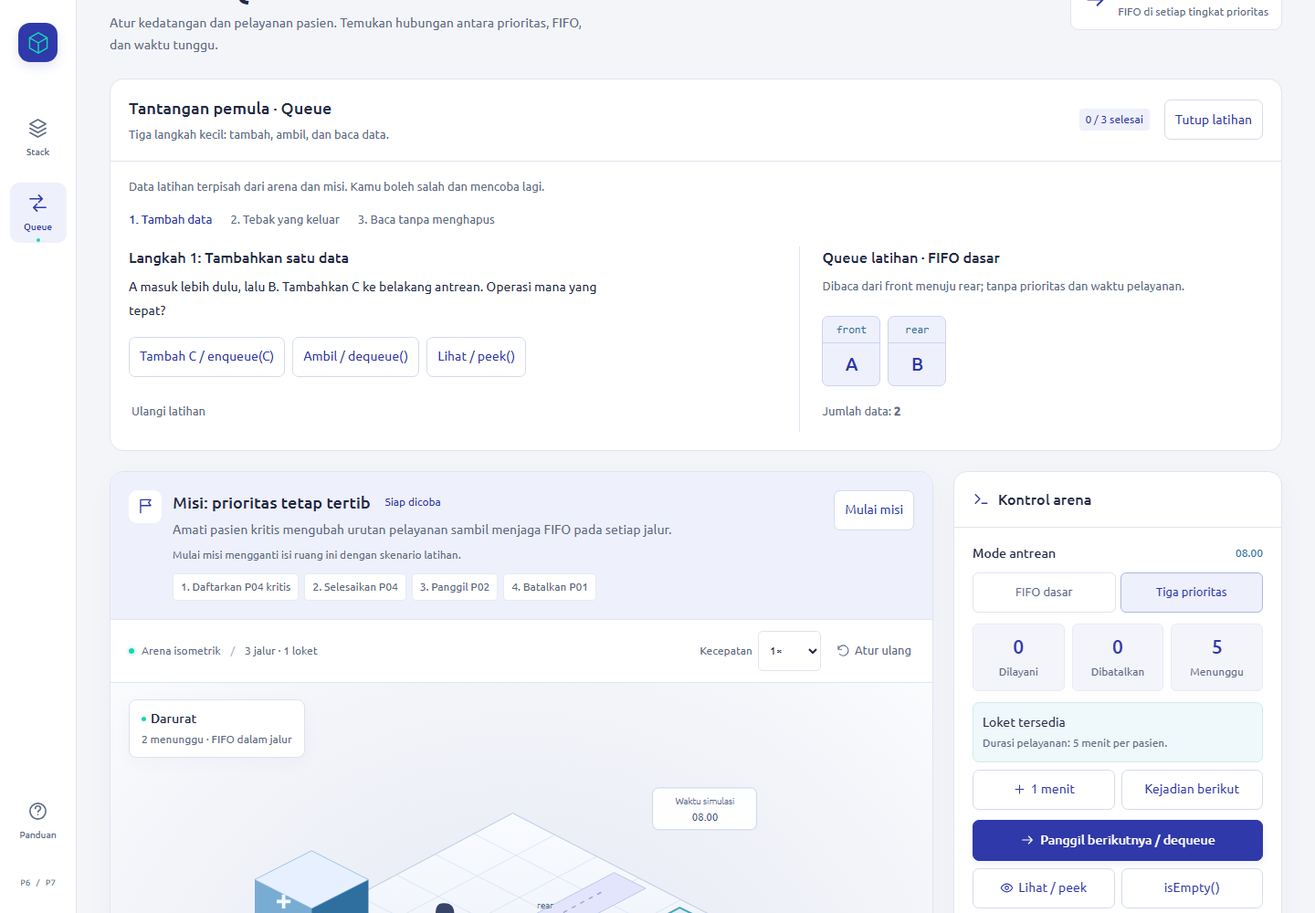
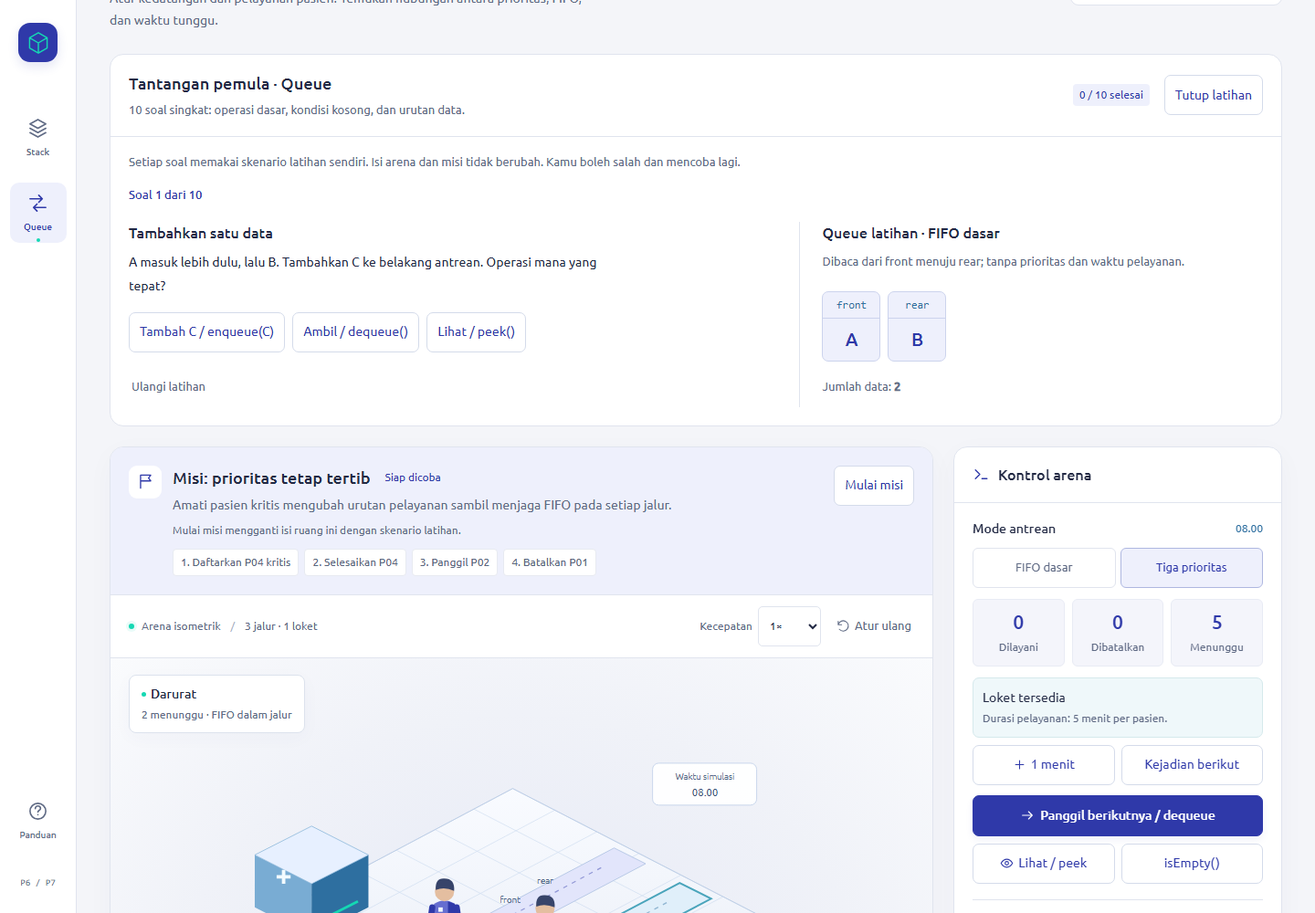
feat: expand beginner practice to 20 questions

diff --git a/app.js b/app.js
@@ -1,5 +1,6 @@
 import { Stack, Queue, Clinic, transfer, priorities } from './model.js';
 import { lessons } from './execution.js';
+import { warmupQuestions } from './challenges.js';
 
 const $ = id => document.getElementById(id);
 const escape = value => String(value).replace(/[&<>"']/g, c => ({'&':'&amp;','<':'&lt;','>':'&gt;','"':'&quot;',"'":'&#39;'}[c]));
@@ -47,48 +48,37 @@ function seedQueue(mission = false) {
 }
 seedStack(); seedQueue();
 
-function newWarmup(kind) {
+function newWarmup(kind,step=0) {
   const structure=kind==='stack'?new Stack():new Queue();
-  for(const id of ['A','B'])structure[kind==='stack'?'push':'enqueue'](item(id,`Data ${id}`,1));
-  return {structure,step:0,answered:false,message:'',error:false};
+  for(const id of warmupQuestions[kind][step].initial)structure[kind==='stack'?'push':'enqueue'](item(id,`Data ${id}`,1));
+  return {structure,step,answered:false,message:'',error:false};
 }
 const warmups={stack:newWarmup('stack'),queue:newWarmup('queue')};
 let warmupOpen=false;
 
 function renderWarmup() {
   const state=warmups[room],stack=room==='stack',values=state.structure.values();
-  const add=stack?'push':'enqueue',remove=stack?'pop':'dequeue',done=state.step+Number(state.answered);
+  const question=warmupQuestions[room][state.step],total=warmupQuestions[room].length,done=state.step+Number(state.answered),complete=done===total;
   $('warmup-title').textContent=`Tantangan pemula · ${stack?'Stack':'Queue'}`;
-  $('warmup-progress').textContent=`${done} / 3 selesai`;
-  $('toggle-warmup').textContent=warmupOpen?'Tutup latihan':done===0?'Mulai latihan':done===3?'Lihat hasil':'Lanjutkan latihan';
+  $('warmup-summary').textContent=`${total} soal singkat: operasi dasar, kondisi kosong, dan urutan data.`;
+  $('warmup-progress').textContent=`${done} / ${total} selesai`;
+  $('toggle-warmup').textContent=warmupOpen?'Tutup latihan':done===0?'Mulai latihan':complete?'Lihat hasil':'Lanjutkan latihan';
   $('toggle-warmup').setAttribute('aria-expanded',String(warmupOpen));
   $('warmup-body').hidden=!warmupOpen;
-  const questions=[`A masuk lebih dulu, lalu B. Tambahkan C ${stack?'ke atas tumpukan':'ke belakang antrean'}. Operasi mana yang tepat?`,`${stack?'Stack':'Queue'} kini berisi A, B, C berdasarkan urutan masuk. Jika ${remove}() dijalankan, data mana yang keluar?`,`Sekarang ${stack?'top':'front'} menunjuk B. Lihat datanya tanpa menghapus. Operasi mana yang tepat?`];
-  const description=done===3?`${stack?'Stack mengeluarkan data terakhir masuk (LIFO).':'Queue mengeluarkan data pertama masuk (FIFO).'} peek() membaca data tanpa mengubah isi struktur.`:state.answered?'Amati hasilnya pada diagram, lalu lanjutkan ke langkah berikutnya.':questions[state.step];
-  const choices=state.step===0?[['add',`Tambah C / ${add}(C)`],['remove',`Ambil / ${remove}()`],['peek','Lihat / peek()']]:state.step===1?['A','B','C'].map(id=>[id,id]):[['remove',`Ambil / ${remove}()`],['peek','Lihat / peek()'],['empty','Cek kosong / isEmpty()']];
-  const diagram=values.map((value,i)=>`<li><span>${i===0?stack?'top':'front':i===values.length-1?stack?'dasar':'rear':'data'}</span><strong>${escape(value.id)}</strong></li>`).join('');
-  $('warmup-exercise').innerHTML=`<ol class="warmup-steps" aria-label="Langkah latihan">${['Tambah data','Tebak yang keluar','Baca tanpa menghapus'].map((title,i)=>`<li ${i===state.step&&done<3?'aria-current="step"':''}>${i<done?icon('check'):`${i+1}.`} ${title}</li>`).join('')}</ol><div class="warmup-grid"><div><h3>${done===3?'Tiga tantangan selesai.':`Langkah ${state.step+1}${state.answered?' selesai':': '+['Tambahkan satu data','Amati urutan keluar','Lihat tanpa mengambil'][state.step]}`}</h3><p>${description}</p><div id="warmup-choices" class="warmup-choices">${state.answered?'':choices.map(([answer,label])=>`<button class="secondary" data-warmup-answer="${answer}">${label}</button>`).join('')}</div><div class="warmup-actions">${state.answered&&done<3?'<button class="primary" data-warmup-next="true">Lanjut ke langkah berikutnya</button>':''}${done===3?'<a class="secondary" href="#simulation">Coba di arena</a>':''}<button class="text-button" data-warmup-reset="true">Ulangi latihan</button></div></div><div class="warmup-preview"><h3>${stack?'Stack latihan':'Queue latihan · FIFO dasar'}</h3><p>${stack?'Dibaca dari top menuju dasar.':'Dibaca dari front menuju rear; tanpa prioritas dan waktu pelayanan.'}</p><ul class="warmup-data" aria-label="${stack?'Urutan dari top ke dasar':'Urutan dari front ke rear'}">${diagram}</ul><p>Jumlah data: <strong>${values.length}</strong></p></div></div>`;
+  const description=complete?`${stack?'LIFO':'FIFO'}, peek, kondisi kosong, dan perubahan referensi sudah kamu coba. Lanjutkan bereksperimen di arena.`:state.answered?'Amati hasilnya pada diagram. Soal berikutnya memuat skenario latihan sendiri.':question.prompt;
+  const diagram=values.map((value,i)=>`<li><span>${i===0?stack?'top':values.length===1?'front / rear':'front':i===values.length-1?stack?'dasar':'rear':'data'}</span><strong>${escape(value.id)}</strong></li>`).join('')||`<li class="warmup-empty"><span>${stack?'top':'front / rear'}</span><strong>None</strong></li>`;
+  $('warmup-exercise').innerHTML=`<p class="warmup-steps">${complete?'Latihan selesai':`Soal ${state.step+1} dari ${total}`}</p><div class="warmup-grid"><div><h3>${complete?`${total} soal selesai.`:escape(question.title)+(state.answered?' · selesai':'')}</h3><p>${escape(description)}</p><div id="warmup-choices" class="warmup-choices">${state.answered?'':question.choices.map(([answer,label])=>`<button class="secondary" data-warmup-answer="${escape(answer)}">${escape(label)}</button>`).join('')}</div><div class="warmup-actions">${state.answered&&!complete?'<button class="primary" data-warmup-next="true">Lanjut ke soal berikutnya</button>':''}${complete?'<a class="secondary" href="#simulation">Coba di arena</a>':''}<button class="text-button" data-warmup-reset="true">Ulangi latihan</button></div></div><div class="warmup-preview"><h3>${stack?'Stack latihan':'Queue latihan · FIFO dasar'}</h3><p>${stack?'Dibaca dari top menuju dasar.':'Dibaca dari front menuju rear; tanpa prioritas dan waktu pelayanan.'}</p><ul class="warmup-data" aria-label="${stack?'Urutan dari top ke dasar':'Urutan dari front ke rear'}">${diagram}</ul><p>Jumlah data: <strong>${values.length}</strong></p></div></div>`;
   $('warmup-feedback').textContent=state.message;
   $('warmup-feedback').classList.toggle('error',state.error);
 }
 
 function answerWarmup(answer) {
   const state=warmups[room];if(state.answered)return;
-  const stack=room==='stack',expected=state.step===0?'add':state.step===1?state.structure.peek().id:'peek';
-  if(!['add','remove','peek','empty','A','B','C'].includes(answer))return;
-  state.error=answer!==expected;
-  if(state.error){
-    state.message=['Belum tepat. Pilih operasi yang menambah data; mengambil atau melihat tidak menambah C.',`Belum tepat. Amati ${stack?'top dan aturan terakhir masuk, pertama keluar':'front dan aturan pertama masuk, pertama keluar'}. Coba lagi.`,'Belum tepat. Ambil menghapus data, sedangkan cek kosong hanya memberi True/False. Pilih operasi yang membaca data.'][state.step];
-  }else{
-    if(state.step===0){
-      state.structure[stack?'push':'enqueue'](item('C','Data C',1));
-      state.message=stack?'Benar. push(C) menaruh C di top. Urutannya kini C → B → A dari top.':'Benar. enqueue(C) menaruh C di rear. Front tetap A; urutannya A → B → C.';
-    }else if(state.step===1){
-      const removed=state.structure[stack?'pop':'dequeue']();
-      state.message=`Benar. ${removed.id} keluar lewat ${stack?'top':'front'}. ${stack?'Top':'Front'} sekarang B; tersisa dua data.`;
-    }else state.message=`Benar. peek() menghasilkan ${state.structure.peek().id}; jumlah data tetap ${state.structure.count}. Data dibaca tanpa dihapus.`;
-    state.answered=true;
-  }
+  const question=warmupQuestions[room][state.step];
+  if(!question.choices.some(([value])=>value===answer))return;
+  state.error=answer!==question.answer;
+  if(state.error)state.message=`Belum tepat. ${question.hint} Coba lagi.`;
+  else{question.run(state.structure);state.message=`Benar. ${question.explanation}`;state.answered=true;}
   renderWarmup();$('warmup-feedback').focus({preventScroll:true});
 }
 
@@ -501,8 +491,8 @@ document.addEventListener('click',event=>{
   if(!button)return;
   if(button.dataset.warmupAnswer){answerWarmup(button.dataset.warmupAnswer);return;}
   if(button.dataset.warmupNext){
-    const state=warmups[room];if(!state.answered||state.step>=2)return;
-    state.step++;state.answered=false;state.message='';state.error=false;renderWarmup();
+    const state=warmups[room];if(!state.answered||state.step>=warmupQuestions[room].length-1)return;
+    warmups[room]=newWarmup(room,state.step+1);renderWarmup();
     document.querySelector('#warmup-choices button')?.focus({preventScroll:true});return;
   }
   if(button.dataset.warmupReset){warmups[room]=newWarmup(room);renderWarmup();document.querySelector('#warmup-choices button')?.focus({preventScroll:true});return;}

diff --git a/challenges.js b/challenges.js
@@ -1,0 +1,81 @@
+const data=id=>({id,name:`Data ${id}`,weight:1});
+
+function questions(kind) {
+  const stack=kind==='stack',add=stack?'push':'enqueue',remove=stack?'pop':'dequeue',pointer=stack?'top':'front';
+  return [
+    {
+      title:'Tambahkan satu data', initial:['A','B'],
+      prompt:`A masuk lebih dulu, lalu B. Tambahkan C ${stack?'ke atas tumpukan':'ke belakang antrean'}. Operasi mana yang tepat?`,
+      choices:[['add',`Tambah C / ${add}(C)`],['remove',`Ambil / ${remove}()`],['peek','Lihat / peek()']], answer:'add',
+      hint:'Pilih operasi yang menambah data; mengambil atau melihat tidak menambah C.',
+      run:s=>s[add](data('C')),
+      explanation:stack?'push(C) menaruh C di top. Urutannya kini C → B → A dari top.':'enqueue(C) menaruh C di rear. Front tetap A; urutannya A → B → C.',
+    },
+    {
+      title:'Amati urutan keluar', initial:['A','B','C'],
+      prompt:`A masuk, lalu B, lalu C. Jika ${remove}() dijalankan, data mana yang keluar?`,
+      choices:[['A','A'],['B','B'],['C','C']], answer:stack?'C':'A',
+      hint:`Amati ${pointer} dan aturan ${stack?'terakhir masuk, pertama keluar':'pertama masuk, pertama keluar'}.`,
+      run:s=>s[remove](),
+      explanation:`${stack?'C':'A'} keluar lewat ${pointer}. ${stack?'Top':'Front'} sekarang B; tersisa dua data.`,
+    },
+    {
+      title:'Lihat tanpa mengambil', initial:stack?['A','B']:['B','C'],
+      prompt:`${stack?'Top':'Front'} menunjuk B. Lihat datanya tanpa menghapus. Operasi mana yang tepat?`,
+      choices:[['remove',`Ambil / ${remove}()`],['peek','Lihat / peek()'],['empty','Cek kosong / isEmpty()']], answer:'peek',
+      hint:'Ambil menghapus data, sedangkan cek kosong hanya memberi True/False. Pilih operasi yang membaca data.',
+      run:s=>s.peek(), explanation:'peek() menghasilkan B; jumlah data tetap 2. Data dibaca tanpa dihapus.',
+    },
+    {
+      title:'Periksa struktur yang berisi', initial:['A','B'],
+      prompt:'Masih ada dua data. Apa hasil isEmpty()?',
+      choices:[['True','True'],['False','False'],['None','None']], answer:'False',
+      hint:'isEmpty() menanyakan apakah tidak ada data, bukan apakah ada data.',
+      run:s=>s.isEmpty(), explanation:'isEmpty() menghasilkan False karena struktur masih berisi A dan B. Tidak ada data yang dihapus.',
+    },
+    {
+      title:'Kenali kondisi kosong', initial:[],
+      prompt:`Tidak ada data dan ${pointer} menunjuk None. Apa hasil isEmpty()?`,
+      choices:[['False','False'],['None','None'],['True','True']], answer:'True',
+      hint:'True berarti pernyataan “struktur ini kosong” benar. None berarti tidak ada node yang ditunjuk.',
+      run:s=>s.isEmpty(), explanation:'isEmpty() menghasilkan True. Struktur tetap kosong; pemeriksaan ini tidak menambah atau menghapus node.',
+    },
+    {
+      title:'Ambil data terakhir', initial:['K'],
+      prompt:`Hanya K yang tersisa. Setelah ${remove}(), bagaimana referensi ${stack?'top':'front dan rear'}?`,
+      choices:[['K','Tetap menunjuk K'],['None',stack?'top → None':'front dan rear → None'],['new','Membuat node pengganti']], answer:'None',
+      hint:`Setelah node terakhir keluar, tidak ada lagi node yang dapat ditunjuk ${stack?'top':'kedua ujung Queue'}.`,
+      run:s=>s[remove](), explanation:stack?'K keluar. Top menjadi None dan jumlah data menjadi 0.':'K keluar. Front dan rear sama-sama menjadi None agar tidak ada referensi yang tertinggal ke node lama.',
+    },
+    {
+      title:'Mengambil dari struktur kosong', initial:[],
+      prompt:`Struktur sudah kosong. Apa yang dikembalikan ${remove}()?`,
+      choices:[['0','Angka 0'],['None','None'],['new','Data baru']], answer:'None',
+      hint:'Tidak ada data yang bisa dikembalikan. Angka 0 bisa menjadi nilai data, sehingga berbeda dari penanda tidak ada hasil.',
+      run:s=>s[remove](), explanation:`${remove}() menghasilkan None tanpa mengubah struktur. Kondisi ini disebut underflow.`,
+    },
+    {
+      title:'Gabungkan tambah dan ambil', initial:stack?['A','C']:['B','C'],
+      prompt:`Skenario baru: A dan B dimasukkan, lalu ${remove}() sekali, lalu ${add}(C). Diagram menunjukkan hasilnya. Jika ${remove}() lagi, siapa yang keluar?`,
+      choices:[['A','A'],['C','C'],['B','B']], answer:stack?'C':'B',
+      hint:`Lanjutkan dari diagram saat ini. Data baru ${stack?'menjadi top pada Stack':'masuk di rear, bukan mendahului front pada Queue'}.`,
+      run:s=>s[remove](), explanation:stack?'C keluar. Setelah B diambil dan C ditambahkan, C menjadi top di atas A.':'B keluar. Setelah A keluar, B menjadi front; C ditambahkan di belakang B.',
+    },
+    {
+      title:stack?'Ikuti perpindahan top':'Rear tetap di belakang', initial:['A','B','C'],
+      prompt:stack?'A, B, C masuk berurutan. Setelah pop() mengambil C, top menunjuk siapa?':'A, B, C masuk berurutan. Setelah dequeue() mengambil A, rear menunjuk siapa?',
+      choices:[['B','B'],['A','A'],['C','C']], answer:stack?'B':'C',
+      hint:stack?'Top berpindah ke next milik node yang diambil.':'Dequeue memindahkan front. Rear berubah menjadi None hanya jika tidak ada lagi node.',
+      run:s=>s[remove](), explanation:stack?'Top berpindah dari C ke B. Referensi next milik B tetap menunjuk A.':'Front berpindah dari A ke B. Rear tetap menunjuk C karena Queue masih berisi B dan C.',
+    },
+    {
+      title:'Dua kali mengambil', initial:['A','B','C'],
+      prompt:`A, B, C masuk berurutan. Jika ${remove}() dijalankan dua kali, bagaimana urutan data yang keluar?`,
+      choices:[['B,A','B → A'],['C,B','C → B'],['A,B','A → B']], answer:stack?'C,B':'A,B',
+      hint:`Terapkan ${stack?'LIFO':'FIFO'} pada pengambilan pertama, lalu amati ujung yang baru sebelum pengambilan kedua.`,
+      run:s=>[s[remove](),s[remove]()], explanation:stack?'C keluar, lalu B. A tersisa sebagai top: urutan keluar mengikuti LIFO.':'A keluar, lalu B. C tersisa sebagai front sekaligus rear: urutan keluar mengikuti FIFO.',
+    },
+  ];
+}
+
+export const warmupQuestions={stack:questions('stack'),queue:questions('queue')};

diff --git a/index.html b/index.html
@@ -41,8 +41,8 @@
     <main id="main">
       <div class="page-heading"><div><div class="heading-line"><h1 id="room-title">Gudang Stack</h1><span id="practicum" class="practicum-tag">Praktikum 6</span></div><p id="room-description">Simpan, pindahkan, dan temukan barang. Pahami apa yang terjadi di balik setiap operasi.</p></div><div class="principle" id="principle"></div></div>
       <section class="warmup" aria-labelledby="warmup-title">
-        <div class="warmup-heading"><div><h2 id="warmup-title">Tantangan pemula · Stack</h2><p>Tiga langkah kecil: tambah, ambil, dan baca data.</p></div><span id="warmup-progress" class="small-badge">0 / 3 selesai</span><button id="toggle-warmup" class="secondary" aria-expanded="false" aria-controls="warmup-body">Mulai latihan</button></div>
-        <div id="warmup-body" hidden><p class="warmup-note">Data latihan terpisah dari arena dan misi. Kamu boleh salah dan mencoba lagi.</p><p id="warmup-feedback" class="warmup-feedback" role="status" aria-live="polite" tabindex="-1"></p><div id="warmup-exercise"></div></div>
+        <div class="warmup-heading"><div><h2 id="warmup-title">Tantangan pemula · Stack</h2><p id="warmup-summary">10 soal singkat: operasi dasar, kondisi kosong, dan urutan data.</p></div><span id="warmup-progress" class="small-badge">0 / 10 selesai</span><button id="toggle-warmup" class="secondary" aria-expanded="false" aria-controls="warmup-body">Mulai latihan</button></div>
+        <div id="warmup-body" hidden><p class="warmup-note">Setiap soal memakai skenario latihan sendiri. Isi arena dan misi tidak berubah. Kamu boleh salah dan mencoba lagi.</p><p id="warmup-feedback" class="warmup-feedback" role="status" aria-live="polite" tabindex="-1"></p><div id="warmup-exercise"></div></div>
       </section>
       <div class="workspace">
         <section class="simulation" id="simulation" aria-label="Dunia simulasi" tabindex="-1">
@@ -72,7 +72,7 @@
       <footer class="page-footer"><span>Strukdat Gaming <span class="footer-divider">/</span> Praktikum Struktur Data</span><span>Eksplorasi → amati → pahami</span></footer>
     </main>
   </div>
-  <dialog id="guide"><div class="dialog-heading"><h2>Mulai dari satu operasi.</h2><button id="close-guide" aria-label="Tutup panduan"><svg class="icon"><use href="#i-close"/></svg></button></div><p>Pilih ruang Stack atau Queue. Pilih objek di dunia isometrik, lalu gunakan kontrol arena untuk mengubahnya.</p><ol><li><strong>Tantangan pemula:</strong> klik Mulai latihan di bawah judul ruang. Coba tiga langkah singkat dengan data terpisah: tambah, ambil, lalu baca tanpa menghapus. Jawaban salah bisa dicoba lagi.</li><li><strong>Eksperimen:</strong> tambah, ambil, atau pindahkan data sesukamu. Barang teratas dapat diseret ke rak lain; tombol Pindahkan melakukan operasi yang sama. Di ponsel, gulir dari lantai arena atau gunakan tombol operasi cepat.</li><li><strong>Kamera:</strong> perbesar arena atau gunakan Fokus objek untuk mengamati rak dan jalur terpilih.</li><li><strong>Misi:</strong> tekan Mulai misi untuk memuat skenario terpandu. Skenario mengganti isi ruang aktif.</li><li><strong>Linked-list:</strong> amati perubahan top, front, rear, dan next setelah operasi.</li><li><strong>Bedah Eksekusi:</strong> setelah push, pop, registrasi, atau pemanggilan, buka Bedah kode di bawah arena. Pilih baris Python atau gunakan kontrol langkah untuk melihat rekaman node, referensi, dan variabel lokal. Arena menampilkan hasil akhir; penelusuran tidak mengubahnya. Sumber cuplikan dan aturan tambahan dijelaskan terpisah.</li></ol><p>Queue memakai satu loket dengan durasi lima menit. Pelayanan berjalan sampai selesai sebelum pasien berikutnya dipanggil. Estimasi tunggu berdasarkan antrean saat ini.</p><p>Gunakan Tab dan Enter untuk memilih objek. Gerakan mengikuti preferensi perangkat dan dapat diminimalkan lewat pengaturan di atas. Data eksperimen berlaku selama halaman terbuka.</p></dialog>
+  <dialog id="guide"><div class="dialog-heading"><h2>Mulai dari satu operasi.</h2><button id="close-guide" aria-label="Tutup panduan"><svg class="icon"><use href="#i-close"/></svg></button></div><p>Pilih ruang Stack atau Queue. Pilih objek di dunia isometrik, lalu gunakan kontrol arena untuk mengubahnya.</p><ol><li><strong>Tantangan pemula:</strong> klik Mulai latihan di bawah judul ruang. Coba 10 soal per ruang, dari operasi dasar hingga kondisi kosong dan urutan beberapa operasi. Jawaban salah bisa dicoba lagi.</li><li><strong>Eksperimen:</strong> tambah, ambil, atau pindahkan data sesukamu. Barang teratas dapat diseret ke rak lain; tombol Pindahkan melakukan operasi yang sama. Di ponsel, gulir dari lantai arena atau gunakan tombol operasi cepat.</li><li><strong>Kamera:</strong> perbesar arena atau gunakan Fokus objek untuk mengamati rak dan jalur terpilih.</li><li><strong>Misi:</strong> tekan Mulai misi untuk memuat skenario terpandu. Skenario mengganti isi ruang aktif.</li><li><strong>Linked-list:</strong> amati perubahan top, front, rear, dan next setelah operasi.</li><li><strong>Bedah Eksekusi:</strong> setelah push, pop, registrasi, atau pemanggilan, buka Bedah kode di bawah arena. Pilih baris Python atau gunakan kontrol langkah untuk melihat rekaman node, referensi, dan variabel lokal. Arena menampilkan hasil akhir; penelusuran tidak mengubahnya. Sumber cuplikan dan aturan tambahan dijelaskan terpisah.</li></ol><p>Queue memakai satu loket dengan durasi lima menit. Pelayanan berjalan sampai selesai sebelum pasien berikutnya dipanggil. Estimasi tunggu berdasarkan antrean saat ini.</p><p>Gunakan Tab dan Enter untuk memilih objek. Gerakan mengikuti preferensi perangkat dan dapat diminimalkan lewat pengaturan di atas. Data eksperimen berlaku selama halaman terbuka.</p></dialog>
   <dialog id="replace-confirm" aria-labelledby="replace-title" aria-describedby="replace-description">
     <h2 id="replace-title">Ganti eksperimen saat ini?</h2>
     <p id="replace-description"></p><p>Catatan operasi tetap tersimpan selama halaman ini terbuka.</p>

diff --git a/tests/execution-view.test.js b/tests/execution-view.test.js
@@ -4,6 +4,7 @@ import { readFileSync } from 'node:fs';
 import vm from 'node:vm';
 import { Stack, Queue, Clinic, transfer, priorities } from '../model.js';
 import { lessons } from '../execution.js';
+import { warmupQuestions } from '../challenges.js';
 
 // A small DOM sink tests event wiring and generated markup without a browser or network.
 function view() {
@@ -23,7 +24,7 @@ function view() {
     activeElement:element('body'),
     addEventListener:(type,handler)=>listeners.set(`document:${type}`,handler),
   };
-  const context = vm.createContext({ document, Stack, Queue, Clinic, transfer, priorities, lessons,
+  const context = vm.createContext({ document, Stack, Queue, Clinic, transfer, priorities, lessons, warmupQuestions,
     matchMedia:()=>({matches:true}),getComputedStyle:()=>({transform:'none'}),
     setInterval:()=>1,clearInterval(){},setTimeout:()=>1,clearTimeout(){},
   });
@@ -47,7 +48,7 @@ test('Beginner challenges teach LIFO and FIFO with real operations while preserv
     assert.equal(vm.runInContext('warmups[room].structure.count',context),2);
     action({warmupAnswer:'add'});action({warmupAnswer:'add'});
     assert.equal(vm.runInContext('warmups[room].structure.count',context),3,'double activation must not add another C');
-    assert.equal(element('warmup-progress').textContent,'1 / 3 selesai');
+    assert.equal(element('warmup-progress').textContent,'1 / 10 selesai');
     action({warmupNext:'true'});
     action({warmupAnswer:kind==='stack'?'A':'C'});
     assert.equal(vm.runInContext('warmups[room].structure.count',context),3);
@@ -56,15 +57,31 @@ test('Beginner challenges teach LIFO and FIFO with real operations while preserv
     action({warmupNext:'true'});action({warmupAnswer:'empty'});
     assert.match(element('warmup-feedback').textContent,/Belum tepat/);
     action({warmupAnswer:'peek'});
-    assert.equal(element('warmup-progress').textContent,'3 / 3 selesai');
+    assert.equal(element('warmup-progress').textContent,'3 / 10 selesai');
     assert.equal(vm.runInContext('warmups[room].structure.count',context),2);
-    assert.match(element('warmup-exercise').innerHTML,/Tiga tantangan selesai/);
+    for(let step=3;step<10;step++){
+      action({warmupNext:'true'});
+      const question=warmupQuestions[kind][step];
+      const before=vm.runInContext('JSON.stringify(warmups[room].structure.values())',context);
+      action({warmupAnswer:'not-an-option'});
+      assert.equal(element('warmup-progress').textContent,`${step} / 10 selesai`);
+      action({warmupAnswer:question.choices.find(([value])=>value!==question.answer)[0]});
+      assert.match(element('warmup-feedback').textContent,/Belum tepat/);
+      assert.equal(vm.runInContext('JSON.stringify(warmups[room].structure.values())',context),before);
+      action({warmupAnswer:question.answer});
+      assert.equal(element('warmup-progress').textContent,`${step+1} / 10 selesai`);
+      const after=vm.runInContext('JSON.stringify(warmups[room].structure.values())',context);
+      action({warmupAnswer:question.answer});
+      assert.equal(vm.runInContext('JSON.stringify(warmups[room].structure.values())',context),after);
+    }
+    assert.match(element('warmup-exercise').innerHTML,/10 soal selesai/);
     assert.equal(element('scene').innerHTML,scene);assert.equal(element('mission-status').textContent,mission);
     assert.equal(vm.runInContext('edited[room]',context),false);
-    click('toggle-warmup');click('toggle-warmup');assert.equal(element('warmup-progress').textContent,'3 / 3 selesai');
-    action({room:kind==='stack'?'queue':'stack'});assert.equal(element('warmup-progress').textContent,'0 / 3 selesai');
-    action({room:kind});assert.equal(element('warmup-progress').textContent,'3 / 3 selesai');
-    action({warmupReset:'true'});assert.equal(element('warmup-progress').textContent,'0 / 3 selesai');
+    click('toggle-warmup');click('toggle-warmup');assert.equal(element('warmup-progress').textContent,'10 / 10 selesai');
+    action({room:kind==='stack'?'queue':'stack'});assert.equal(element('warmup-progress').textContent,'0 / 10 selesai');
+    action({room:kind});assert.equal(element('warmup-progress').textContent,'10 / 10 selesai');
+    action({warmupNext:'true'});assert.equal(vm.runInContext('warmups[room].step',context),9);
+    action({warmupReset:'true'});assert.equal(element('warmup-progress').textContent,'0 / 10 selesai');
     assert.equal(vm.runInContext('warmups[room].structure.count',context),2);
   }
 });

diff --git a/tests/challenges.test.js b/tests/challenges.test.js
@@ -1,0 +1,46 @@
+import test from 'node:test';
+import assert from 'node:assert/strict';
+import { Stack, Queue } from '../model.js';
+import { warmupQuestions } from '../challenges.js';
+
+const fixtures={
+  stack:{
+    answers:['add','C','peek','False','True','None','None','C','B','C,B'],
+    returned:['C','C','B',false,true,'K',null,'C','C',['C','B']],
+    after:[['C','B','A'],['B','A'],['B','A'],['B','A'],[],[],[],['A'],['B','A'],['A']],
+  },
+  queue:{
+    answers:['add','A','peek','False','True','None','None','B','C','A,B'],
+    returned:['C','A','B',false,true,'K',null,'B','A',['A','B']],
+    after:[['A','B','C'],['B','C'],['B','C'],['A','B'],[],[],[],['C'],['B','C'],['C']],
+  },
+};
+const label=value=>Array.isArray(value)?value.map(label):value&&typeof value==='object'?value.id:value;
+const data=id=>({id,name:id,weight:1});
+
+for(const kind of ['stack','queue'])test(`${kind}: all ten questions match real operation results and pointer states`,()=>{
+  assert.equal(warmupQuestions[kind].length,10);
+  const expected=fixtures[kind];
+  for(const [i,question] of warmupQuestions[kind].entries()){
+    const structure=kind==='stack'?new Stack():new Queue();
+    for(const id of question.initial)structure[kind==='stack'?'push':'enqueue'](data(id));
+    assert.equal(question.answer,expected.answers[i],`question ${i+1} answer`);
+    assert.equal(new Set(question.choices.map(([value])=>value)).size,question.choices.length);
+    assert.equal(question.choices.filter(([value])=>value===question.answer).length,1);
+    const result=question.run(structure);
+    assert.deepEqual(label(result),expected.returned[i],`question ${i+1} result`);
+    assert.deepEqual(structure.values().map(value=>value.id),expected.after[i],`question ${i+1} diagram`);
+    assert.equal(structure.count,expected.after[i].length);
+    if(!structure.count){
+      if(kind==='stack')assert.equal(structure.top,null);
+      else {assert.equal(structure.front,null);assert.equal(structure.rear,null);}
+    }else if(kind==='queue'){
+      assert.equal(structure.rear.next,null);
+      if(structure.count===1)assert.equal(structure.front,structure.rear);
+    }
+  }
+  const mixed=kind==='stack'?new Stack():new Queue(),add=kind==='stack'?'push':'enqueue',remove=kind==='stack'?'pop':'dequeue';
+  for(const id of ['A','B'])mixed[add](data(id));
+  mixed[remove]();mixed[add](data('C'));
+  assert.deepEqual(mixed.values().map(value=>value.id),kind==='stack'?[...warmupQuestions[kind][7].initial].reverse():warmupQuestions[kind][7].initial);
+});

diff --git a/styles.css b/styles.css
@@ -221,10 +221,7 @@ body.reduced-motion button:active:not(:disabled){transform:none}
 #warmup-body{border-top:1px solid var(--line);padding:0 20px 20px}
 #warmup-body[hidden]{display:none}
 .warmup-note{margin:16px 0}
-.warmup-steps{list-style:none;display:flex;gap:12px 20px;flex-wrap:wrap;margin:0 0 20px;padding:0;font-size:13px;color:var(--muted)}
-.warmup-steps li{display:flex;align-items:center;gap:6px}
-.warmup-steps .icon{width:16px;height:16px;color:var(--teal-ink)}
-.warmup-steps [aria-current=step]{color:var(--indigo);font-weight:500}
+.warmup-steps{margin:0 0 20px;font-size:13px;font-weight:500;color:var(--indigo)}
 .warmup-grid{display:grid;grid-template-columns:minmax(0,1.4fr) minmax(0,1fr);gap:24px}
 .warmup-grid h3{font-size:16px;font-weight:500;margin:0 0 8px;line-height:1.5}
 .warmup-grid p{font-size:14px;line-height:1.8;max-width:65ch}
@@ -241,5 +238,5 @@ body.reduced-motion button:active:not(:disabled){transform:none}
 .warmup-feedback{margin:0 0 18px;padding:12px 14px;border:1px solid #beeee0;border-radius:7px;background:#e1faf3;color:var(--teal-ink);font-size:14px;line-height:1.7}
 .warmup-feedback:empty{display:none}.warmup-feedback.error{background:#fff1f3;color:var(--danger);border-color:#efd1d9}
 @media(max-width:700px){.warmup-heading{flex-wrap:wrap}.warmup-heading>div{flex-basis:100%}.warmup-heading>.secondary{margin-left:auto}.warmup-grid{grid-template-columns:1fr;gap:20px}.warmup-preview{border-left:0;border-top:1px solid var(--line);padding:16px 0 0}}
-@media(max-width:540px){.warmup-heading{padding:16px;gap:10px}#warmup-body{padding:0 16px 16px}.warmup-heading h2{font-size:17px}.warmup-steps{gap:8px 12px}.warmup-data{gap:6px}.warmup-data li{flex-basis:58px}.warmup-choices button{flex:1}.warmup-choices button[data-warmup-answer=add]{flex-basis:100%}}
+@media(max-width:540px){.warmup-heading{padding:16px;gap:10px}#warmup-body{padding:0 16px 16px}.warmup-heading h2{font-size:17px}.warmup-data{gap:6px}.warmup-data li{flex-basis:58px}.warmup-choices button{flex:1}.warmup-choices button[data-warmup-answer=add]{flex-basis:100%}}
 

diff --git a/serve.js b/serve.js
@@ -8,6 +8,7 @@ const files = new Map([
   ['/app.js', ['app.js','text/javascript; charset=utf-8']],
   ['/model.js', ['model.js','text/javascript; charset=utf-8']],
   ['/execution.js', ['execution.js','text/javascript; charset=utf-8']],
+  ['/challenges.js', ['challenges.js','text/javascript; charset=utf-8']],
   ['/assets/Ubuntu-Regular.ttf', ['assets/Ubuntu-Regular.ttf','font/ttf']],
   ['/assets/Ubuntu-Medium.ttf', ['assets/Ubuntu-Medium.ttf','font/ttf']],
 ]);

diff --git a/PANDUAN-PENGGUNA.md b/PANDUAN-PENGGUNA.md
@@ -28,7 +28,7 @@ Tidak perlu menjalankan `npm install`. Buka aplikasi melalui alamat server terse
 | Bagian | Kegunaan |
 |---|---|
 | **Stack / Queue** | Berpindah antara gudang barang dan antrean pasien. Di ponsel, tombolnya berada di navigasi bawah. |
-| **Tantangan pemula** | Tiga latihan singkat untuk mengenali operasi dasar sebelum mencoba arena. |
+| **Tantangan pemula** | 10 soal per ruang untuk mengenali operasi dasar, kondisi kosong, dan urutan data sebelum mencoba arena. |
 | **Misi** | Menampilkan tujuan, progres, dan langkah berikutnya setelah misi dimulai. |
 | **Arena isometrik** | Memilih rak, barang, jalur, atau pasien. |
 | **Kontrol arena** | Menambah data, menjalankan operasi, dan mengatur simulasi. Di layar sempit, panel ini berada di bawah arena. |
@@ -45,17 +45,26 @@ Pada ponsel, gunakan **Tambah data & kontrol lengkap** di bawah arena untuk menu
 
 Di bawah judul ruang, temukan **Tantangan pemula**, lalu klik **Mulai latihan**. Latihan menggunakan data sendiri sehingga tidak mengganti barang, pasien, misi, atau rekaman operasi di arena.
 
-Setiap ruang menyediakan tiga langkah:
+Setiap ruang menyediakan **10 soal**, sehingga ada **20 soal** untuk Stack dan Queue. Materinya bertahap:
 
-| Langkah | Pada ruang Stack | Pada ruang Queue |
+| Soal | Materi | Yang kamu latih |
 |---|---|---|
-| **Tambah data** | Pilih `push(C)` untuk menaruh C pada top. | Pilih `enqueue(C)` untuk menaruh C pada rear. |
-| **Tebak yang keluar** | Tentukan data yang keluar jika `pop()` dijalankan. Amati aturan LIFO. | Tentukan data yang keluar jika `dequeue()` dijalankan. Amati aturan FIFO. |
-| **Baca tanpa menghapus** | Pilih `peek()` dan pastikan jumlah data tidak berkurang. | Pilih `peek()` dan pastikan jumlah data tidak berkurang. |
+| 1 | Menambah data | Memilih push atau enqueue. |
+| 2 | Urutan keluar | Membedakan LIFO pada Stack dan FIFO pada Queue. |
+| 3 | Membaca data | Menggunakan peek tanpa menghapus. |
+| 4 | Struktur berisi | Memahami hasil isEmpty saat masih ada data. |
+| 5 | Struktur kosong | Membedakan True, False, dan None. |
+| 6 | Mengambil data terakhir | Mengamati top, atau front dan rear, menjadi None. |
+| 7 | Underflow | Memahami hasil pop/dequeue ketika struktur sudah kosong. |
+| 8 | Operasi campuran | Melanjutkan urutan tambah–ambil–tambah. |
+| 9 | Perubahan referensi | Mengikuti perpindahan top pada Stack atau rear yang tetap pada Queue. |
+| 10 | Dua kali mengambil | Menentukan urutan dua data yang keluar. |
 
-Setelah menjawab, baca penjelasannya dan amati diagram. Jawaban salah tidak mengubah data latihan; kamu dapat langsung mencoba lagi. Jawaban benar menjalankan operasi pada struktur latihan. Klik **Lanjut ke langkah berikutnya** untuk meneruskan.
+Setiap soal memuat skenario sendiri; baca pertanyaan dan amati diagram awal sebelum menjawab. Saat kosong, diagram menampilkan `top → None` untuk Stack atau `front / rear → None` untuk Queue. Jika Queue hanya berisi satu data, node yang sama diberi label **front / rear**.
 
-Setelah ketiga langkah selesai, klik **Coba di arena** untuk menerapkan konsep pada simulasi utama. **Tutup latihan** menyembunyikan bagian ini tanpa menghapus progres; **Ulangi latihan** mengembalikan latihan ruang tersebut ke awal. Stack dan Queue memiliki progres terpisah selama halaman terbuka. Latihan Queue memakai FIFO dasar, tanpa prioritas atau waktu pelayanan.
+Setelah menjawab, baca penjelasannya dan amati diagram. Jawaban salah tidak mengubah data latihan; kamu dapat langsung mencoba lagi. Jawaban benar menjalankan operasi atau pemeriksaan pada struktur latihan. Klik **Lanjut ke soal berikutnya** untuk meneruskan.
+
+Setelah kesepuluh soal ruang tersebut selesai, klik **Coba di arena** untuk menerapkan konsep pada simulasi utama. **Tutup latihan** menyembunyikan bagian ini tanpa menghapus progres; **Ulangi latihan** mengembalikan latihan ruang tersebut ke awal. Stack dan Queue memiliki progres terpisah selama halaman terbuka. Latihan Queue memakai FIFO dasar, tanpa prioritas atau waktu pelayanan.
 
 ## 3. Menggunakan Gudang Stack
 

diff --git a/DESIGN.md b/DESIGN.md
@@ -276,6 +276,6 @@ Lihat AUDIT-UIUX.md untuk temuan, bukti verifikasi, serta batas pengujian.
 
 ## Tantangan pemula
 
-Subbagian opsional ditempatkan antara judul ruang dan workspace. Awalnya hanya judul, penjelasan ringkas, progres 0/3, dan tombol Mulai latihan yang terlihat. Saat dibuka, urutan langkah, pertanyaan, tombol jawaban, dan diagram data latihan tampil dalam dua kolom; di bawah 700px menjadi satu kolom. Ketiga langkah memiliki urutan bermakna: menambah, mengeluarkan menurut LIFO/FIFO, lalu membaca tanpa menghapus.
+Subbagian opsional ditempatkan antara judul ruang dan workspace. Awalnya hanya judul, penjelasan ringkas, progres 0/10, dan tombol Mulai latihan yang terlihat. Saat dibuka, nomor soal, pertanyaan, tombol jawaban, dan diagram data latihan tampil dalam dua kolom; di bawah 700px menjadi satu kolom. Setiap ruang memiliki 10 soal dari operasi dasar hingga kondisi kosong dan operasi berurutan. Satu penanda Soal N dari 10 menggantikan daftar langkah agar antarmuka tetap ringkas. Setiap soal memuat skenario tersendiri. Diagram kosong menampilkan None; Queue satu node menandai front / rear pada node yang sama.
 
 Teks utama 14px, metadata 13px, kontrol minimum 44px. Permukaan dan warna memakai token yang sama dengan arena. Jawaban salah memberi petunjuk dan dapat dicoba kembali; jawaban benar memperbarui diagram melalui model Stack/Queue yang sudah ada. Feedback memiliki status live dan dapat menerima fokus; Tab berikutnya menuju pilihan atau langkah lanjutan. Latihan tidak menambah animasi, penalti, penghitung waktu, ataupun klaim penguasaan materi. Data terpisah dari arena dijelaskan sebelum pengguna mulai.

diff --git a/PRODUCT.md b/PRODUCT.md
@@ -12,7 +12,7 @@ Mahasiswa yang mempelajari materi dan tugas Praktikum 6 Stack serta Praktikum 7 
 
 ## Product Purpose
 
-Simulasi interaktif isometrik yang menghubungkan operasi barang/pasien, node linked-list, dan jejak Python. Pengguna dapat mencoba tiga tantangan pemula per ruang, bereksperimen, dan menyelesaikan dua misi praktikum.
+Simulasi interaktif isometrik yang menghubungkan operasi barang/pasien, node linked-list, dan jejak Python. Pengguna dapat mencoba 10 soal pemula per ruang, bereksperimen, dan menyelesaikan dua misi praktikum.
 
 ## Operating Context
 
@@ -37,4 +37,4 @@ Kedua dokumen praktikum sudah dibaca; implementasi dan tes model berada di model
 - Perpindahan yang gagal tidak mengubah isi rak sumber.
 - Interaksi langsung memiliki alternatif tombol dan keyboard; gerakan dapat dikurangi.
 
-Tantangan pemula memakai objek Stack/Queue tersendiri dengan tiga langkah berurutan: tambah C, prediksi hasil pop/dequeue, dan peek tanpa penghapusan. Latihan Queue hanya memakai FIFO dasar. Progres per ruang berada di memori tab dan tidak memutasi arena, misi, atau rekaman eksekusi utama.
+Tantangan pemula memakai objek Stack/Queue tersendiri dengan 10 soal per ruang (20 total). Materi mencakup tambah, ambil, peek, isEmpty pada struktur berisi/kosong, node terakhir, underflow, operasi campuran, perubahan referensi, dan dua kali pengambilan. Setiap soal memiliki skenario awal sendiri; jawaban salah tidak memutasi data, sedangkan jawaban benar menjalankan model asli. Latihan Queue hanya memakai FIFO dasar. Progres per ruang berada di memori tab dan tidak memutasi arena, misi, atau rekaman eksekusi utama.

diff --git a/README.md b/README.md
@@ -16,7 +16,7 @@ Buka http://127.0.0.1:5174. Server memakai Node.js standar dan hanya menyediakan
 
 ## Isi simulasi
 
-- Tantangan pemula: tiga latihan terpisah untuk Stack dan Queue—menambah data, menebak data yang keluar, serta peek tanpa menghapus. Umpan balik dan diagram langsung, retry tanpa penalti, dan progres per ruang selama tab terbuka.
+- Tantangan pemula: 20 soal (10 Stack dan 10 Queue) tentang tambah/ambil/peek, isEmpty, kondisi kosong, underflow, perubahan referensi, serta urutan beberapa operasi. Umpan balik dan diagram langsung, retry tanpa penalti, dan progres per ruang selama tab terbuka.
 
 - Gudang: tiga Stack linked-list, push, pop, peek, isEmpty, pencarian ID, batas jumlah/berat, dan perpindahan barang yang memvalidasi tujuan sebelum mengubah sumber.
 - Misi Stack: ambil B, simpan D dan C pada Stack bantuan, pulihkan A–C–D.
